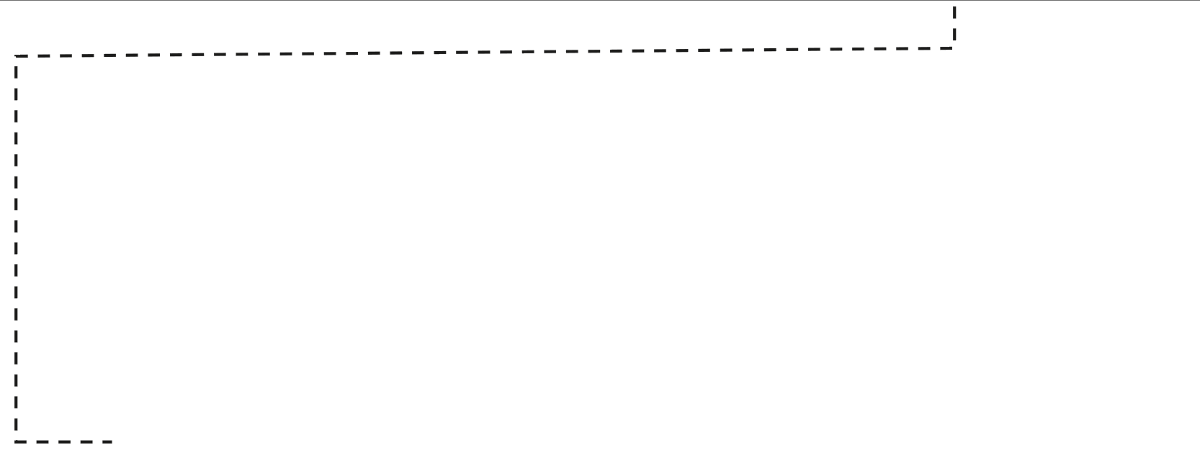
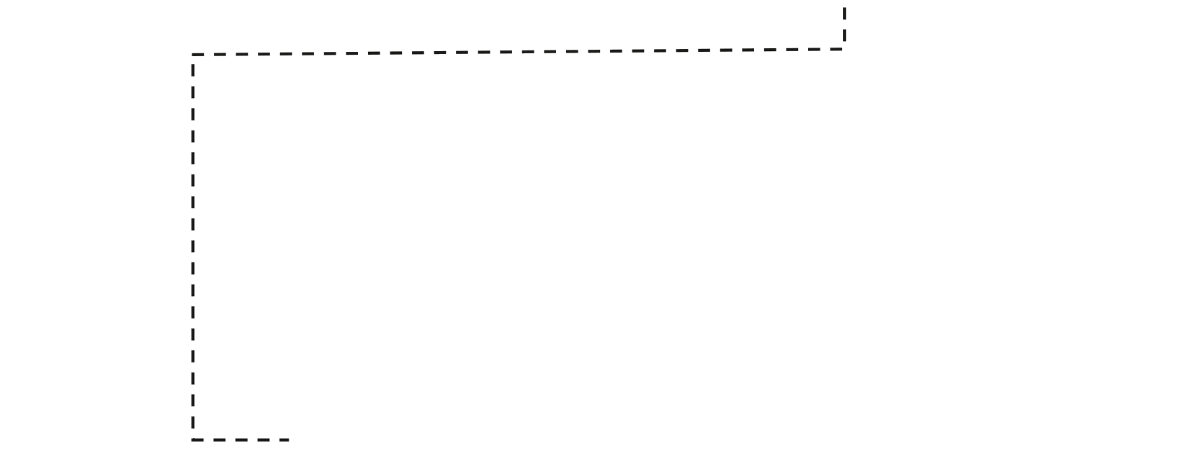
Styles

diff --git a/css/style.css b/css/style.css
@@ -96,7 +96,7 @@ body {
 .box.where {
 	width: 552px;
 	height: 280px;
-	margin-left: 120px;
+	margin-left: 296px;
 	margin-top: -300px;
 }
 .box.how {
